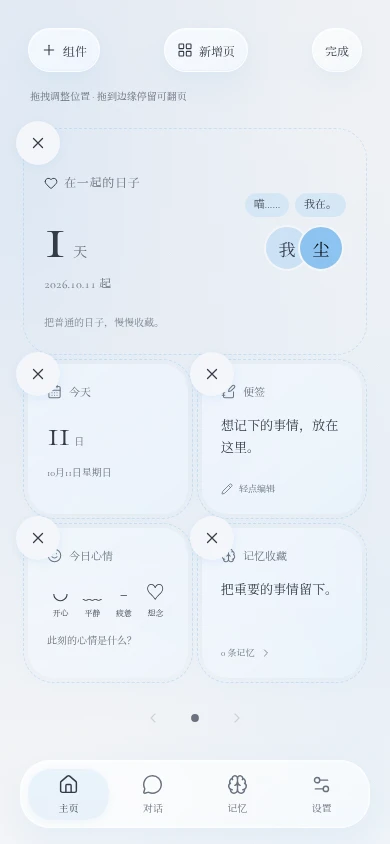
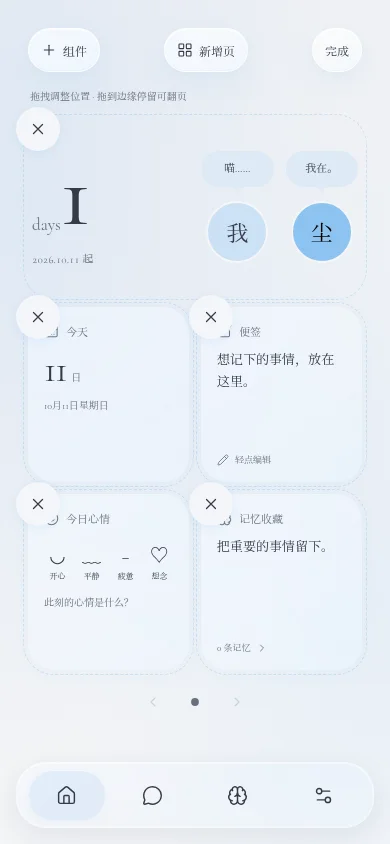
Refine glass dock and anniversary on a 4x6 home grid

diff --git a/src/views.js b/src/views.js
@@ -1,3 +1,4 @@
+import { homeGridSlots } from './home-layout.js';
 import { icon } from './icons.js';
 export const THEME_PRESETS=[['天蓝','#8dc3f0'],['樱粉','#f2a7be'],['蜜桃','#f7b99a'],['柠檬','#f4d66e'],['抹茶','#b3d79b'],['薄荷','#8ed6c0'],['香芋','#b7a2e2']];
 import { daysTogether, isExpired, orderedSessions } from './store.js';
@@ -38,11 +39,12 @@ export function home(state,ui={}) {
  mood:`<section class="widget glass mood-widget"><span class="widget-label">${icon('mood')}${label('mood')}</span><div class="moods">${['开心','平静','疲惫','想念'].map((m,i)=>`<button data-action="mood" data-mood="${m}" class="${h.mood===m?'selected':''}" aria-pressed="${h.mood===m}" aria-label="${m}"><span>${['◡','﹏','−','♡'][i]}</span><small>${m}</small></button>`).join('')}</div><p>${h.mood?`今天，是${escape(h.mood)}的。`:'此刻的心情是什么？'}</p></section>`,
  memory:`<button class="widget glass memory-widget" data-action="memory"><span class="widget-label">${icon('memory')}${label('memory')}</span><p>${escape(chosen?.title||'把重要的事情留下。')}</p><span class="widget-foot">${memories.length} 条记忆 ${icon('chevron')}</span></button>`
  };
- const wrap=(type,content)=>`<div class="home-widget ${type==='anniversary'?'hero-widget':''}" data-home-widget="${type}" tabindex="0" aria-label="${type==='anniversary'?'纪念日':label(type)}，${editing?'拖拽移动，Alt 加方向键调整位置':'长按或右键打开菜单'}"><div class="widget-surface" ${editing?'inert':''}>${content}</div>${editing?`<div class="widget-drag-surface" aria-hidden="true"></div><button class="widget-remove" data-home-action="hide" data-type="${type}" aria-label="移除${type==='anniversary'?'纪念日':label(type)}">${icon('close')}</button>`:''}</div>`;
- const hero=`<section class="anniversary anniversary-horizontal"><div class="anniversary-row"><div class="anniversary-days"><span class="anniversary-title">${icon('heart')}${escape(h.title)}</span><div class="day-count ${String(days>0?days:1-(days||0)).length>4?'long-count':''}"><strong data-home-days>${days>0?days:1-(days||0)}</strong><span data-home-days-unit>${days>0?'天':'天后开始'}</span></div><span class="since">${escape(h.since.replaceAll('-','.'))} 起</span></div><div class="anniversary-companions"><div class="anniversary-bubbles">${[['user',h.userName,h.userBubble||'喵……'],['ai',state.persona.name,h.aiBubble||'我在。']].map(([who,name,bubble])=>`<span class="anniversary-pill" title="${escape(name)}：${escape(bubble)}"><span class="sr-only">${escape(name)}：</span>${escape(bubble)}</span>`).join('')}</div><div class="anniversary-avatars">${[['user',h.userName],['ai',state.persona.name]].map(([who,name])=>`<span class="anniversary-avatar ${who}" title="${escape(name)}" aria-label="${escape(name)}">${avatar(state,who)}</span>`).join('')}</div></div></div>${h.subtitle?`<p class="anniversary-caption">${escape(h.subtitle)}</p>`:''}</section>`;
+ const wrap=(type,content,slot)=>`<div class="home-widget ${type==='anniversary'?'hero-widget':''}" data-home-widget="${type}" style="grid-column:${slot.col} / span ${slot.width};grid-row:${slot.row} / span ${slot.height}" tabindex="0" aria-label="${type==='anniversary'?'纪念日':label(type)}，${editing?'拖拽移动，Alt 加方向键调整位置':'长按或右键打开菜单'}"><div class="widget-surface" ${editing?'inert':''}>${content}</div>${editing?`<div class="widget-drag-surface" aria-hidden="true"></div><button class="widget-remove" data-home-action="hide" data-type="${type}" aria-label="移除${type==='anniversary'?'纪念日':label(type)}">${icon('close')}</button>`:''}</div>`;
+ const count=days>0?days:1-(days||0);
+ const hero=`<section class="anniversary anniversary-horizontal"><div class="anniversary-row"><div class="anniversary-days"><div class="day-count ${String(count).length>3?'long-count':''} ${String(count).length>4?'extra-long-count':''}"><span data-home-days-unit>days</span><strong data-home-days>${count}</strong></div><span class="since">${escape(h.since.replaceAll('-','.'))} ${days>0?'起':'开始'}</span></div><div class="anniversary-companions">${[['user',h.userName,h.userBubble||'喵……'],['ai',state.persona.name,h.aiBubble||'我在。']].map(([who,name,bubble])=>`<div class="anniversary-person"><span class="anniversary-pill" title="${escape(name)}：${escape(bubble)}"><span class="sr-only">${escape(name)}：</span><span class="anniversary-bubble-text">${escape(bubble)}</span></span><span class="anniversary-avatar ${who}" title="${escape(name)}" aria-label="${escape(name)}">${avatar(state,who)}</span></div>`).join('')}</div></div></section>`;
  const pages=ui.dragPages||h.pages||[['anniversary',...h.widgets.map(w=>w.type)]],current=Math.min(ui.page||0,pages.length-1);
  const visible=pages[current].filter(type=>type==='anniversary'?h.anniversaryVisible!==false:h.widgets.some(w=>w.type===type&&w.enabled));
- return `<div class="home-content home-desktop ${editing?'home-editing':''}">${editing?`<div class="home-edit-toolbar"><button class="glass" data-home-action="add" aria-label="添加小组件">${icon('plus')}组件</button><button class="glass" data-home-action="add-page" ${pages.length>=12?'disabled':''}>${icon('layout')}新增页</button><button class="glass" data-home-action="done">完成</button></div><p class="home-edit-help">拖拽调整位置 · 拖到边缘停留可翻页</p>`:''}<section class="home-desktop-page" aria-label="第 ${current+1} 页" data-home-page="${current}"><div class="widget-grid">${visible.map(type=>wrap(type,type==='anniversary'?hero:widgets[type])).join('')}</div>${visible.length?'':`<div class="home-page-empty"><span>${icon('layout')}</span><p>${editing?'从其他页拖入组件，或添加小组件':'这一页，留给新的日常。'}</p>${editing?'<button class="glass" data-home-action="add">添加小组件</button>':''}</div>`}</section><div class="home-page-controls"><button data-home-action="page" data-page="${current-1}" aria-label="上一页" ${current===0?'disabled':''}>${icon('up')}</button><nav class="home-page-dots" aria-label="主页分页">${pages.map((_,i)=>`<button data-home-action="page" data-page="${i}" aria-label="第 ${i+1} 页" ${i===current?'aria-current="page"':''}><span></span></button>`).join('')}</nav><button data-home-action="page" data-page="${current+1}" aria-label="下一页" ${current===pages.length-1?'disabled':''}>${icon('down')}</button></div>${editing?'':`<button class="home-edit-entry" data-home-action="begin">编辑主页</button>`}</div>`;
+ return `<div class="home-content home-desktop ${editing?'home-editing':''}">${editing?`<div class="home-edit-toolbar"><button class="glass" data-home-action="add" aria-label="添加小组件">${icon('plus')}组件</button><button class="glass" data-home-action="add-page" ${pages.length>=12?'disabled':''}>${icon('layout')}新增页</button><button class="glass" data-home-action="done">完成</button></div><p class="home-edit-help">拖拽调整位置 · 拖到边缘停留可翻页</p>`:''}<section class="home-desktop-page" aria-label="第 ${current+1} 页" data-home-page="${current}"><div class="widget-grid">${homeGridSlots(visible).map(slot=>wrap(slot.type,slot.type==='anniversary'?hero:widgets[slot.type],slot)).join('')}</div>${visible.length?'':`<div class="home-page-empty"><span>${icon('layout')}</span><p>${editing?'从其他页拖入组件，或添加小组件':'这一页，留给新的日常。'}</p>${editing?'<button class="glass" data-home-action="add">添加小组件</button>':''}</div>`}</section><div class="home-page-controls"><button data-home-action="page" data-page="${current-1}" aria-label="上一页" ${current===0?'disabled':''}>${icon('up')}</button><nav class="home-page-dots" aria-label="主页分页">${pages.map((_,i)=>`<button data-home-action="page" data-page="${i}" aria-label="第 ${i+1} 页" ${i===current?'aria-current="page"':''}><span></span></button>`).join('')}</nav><button data-home-action="page" data-page="${current+1}" aria-label="下一页" ${current===pages.length-1?'disabled':''}>${icon('down')}</button></div>${editing?'':`<button class="home-edit-entry" data-home-action="begin">编辑主页</button>`}</div>`;
 }
 export function memory(state,filter='all',search='') {
  const list=state.memories.filter(m => (filter==='expired'?isExpired(m):!isExpired(m) && (filter==='all'||m.kind===filter)) && `${m.title} ${m.content}`.toLowerCase().includes(search.toLowerCase()));

diff --git a/src/style.css b/src/style.css
@@ -117,26 +117,53 @@ dialog[open]::backdrop{animation:backdrop-arrive 180ms ease-out}
 @media(prefers-reduced-motion:no-preference){.home-context-menu[open]{animation:widget-menu-fade 140ms ease-out}@keyframes widget-menu-fade{from{opacity:0}to{opacity:1}}}
 .home-page-controls button,.home-edit-toolbar button{touch-action:manipulation}
 
-/* Compact transparent anniversary, following the supplied horizontal example. */
-.home-widget .anniversary-horizontal{padding:24px 12px 18px;background:transparent;border:0;box-shadow:none;backdrop-filter:none}
-.anniversary-row{display:grid;grid-template-columns:minmax(0,1fr) minmax(0,1fr);align-items:center;gap:16px;min-height:150px;padding:8px 4px}
+/* Transparent anniversary: one speech bubble above each independent avatar. */
+.home-widget .anniversary-horizontal{height:100%;padding:8px 4px;background:transparent;border:0;box-shadow:none;backdrop-filter:none;display:flex;align-items:center}
+.anniversary-row{width:100%;display:grid;grid-template-columns:minmax(0,1fr) minmax(0,1fr);align-items:center;gap:12px}
 .anniversary-horizontal .anniversary-days{padding:0}
-.anniversary-horizontal .anniversary-title{display:flex;align-items:center;gap:6px;font-size:12px;letter-spacing:.06em;line-height:1.5;overflow-wrap:anywhere}
-.anniversary-horizontal .anniversary-title svg{width:14px;height:14px;color:var(--ink)}
-.anniversary-horizontal .day-count{gap:6px;margin:10px 0 4px;flex-wrap:wrap}
-.anniversary-horizontal .day-count strong{font-family:var(--font-en);font-variant-numeric:normal;font-size:68px;line-height:1;font-weight:500;letter-spacing:.01em}
-.anniversary-horizontal .day-count>span{font-size:14px}
-.anniversary-horizontal .day-count.long-count strong{font-size:44px}
-.anniversary-horizontal .since{font-size:12px;letter-spacing:0;font-variant-numeric:tabular-nums}
-.anniversary-companions{min-width:0;display:flex;flex-direction:column;align-items:flex-end;gap:8px}
-.anniversary-bubbles{width:100%;display:flex;justify-content:flex-end;align-items:flex-end;gap:6px;max-width:100%}
-.anniversary-pill{min-width:0;max-width:calc(50% - 3px);padding:4px 9px;border-radius:12px;background:color-mix(in srgb,var(--accent) 30%,var(--solid));font-size:11px;line-height:1.5;overflow-wrap:anywhere;white-space:pre-wrap;color:var(--ink)}
-.anniversary-avatars{display:flex;justify-content:flex-end;align-items:center;padding-right:2px}
+.anniversary-horizontal .day-count{position:relative;display:block;padding-left:28px;margin:0 0 8px}
+.anniversary-horizontal .day-count strong{font-family:var(--font-en);font-variant-numeric:normal;font-size:clamp(78px,24vw,96px);line-height:1;font-weight:500;letter-spacing:0}
+.anniversary-horizontal .day-count>span{position:absolute;left:0;bottom:9px;margin:0;font-size:17px;line-height:1;color:var(--muted)}
+.anniversary-horizontal .day-count.long-count strong{font-size:clamp(58px,18vw,72px)}
+.anniversary-horizontal .day-count.extra-long-count strong{font-size:clamp(42px,13vw,52px)}
+.anniversary-horizontal .since{font-size:11px;letter-spacing:0;font-variant-numeric:tabular-nums}
+.anniversary-companions{min-width:0;display:grid;grid-template-columns:repeat(2,minmax(0,1fr));gap:12px}
+.anniversary-person{min-width:0;display:flex;flex-direction:column;align-items:center;gap:14px}
+.anniversary-pill{position:relative;display:flex;align-items:center;justify-content:center;width:100%;min-height:36px;max-height:56px;padding:7px 5px;border-radius:18px;background:color-mix(in srgb,var(--accent) 22%,var(--solid));font-size:11px;line-height:1.4;overflow-wrap:anywhere;white-space:pre-wrap;color:var(--ink);text-align:center}
+.anniversary-bubble-text{display:-webkit-box;-webkit-line-clamp:2;-webkit-box-orient:vertical;overflow:hidden}
+.anniversary-pill:after{content:'';position:absolute;bottom:-6px;left:calc(50% - 7px);width:14px;height:10px;clip-path:polygon(0 0,100% 0,50% 100%);background:inherit}
 .anniversary-avatar{display:block;position:relative}
-.anniversary-avatar.ai{margin-left:-12px;z-index:1}
-.anniversary-avatar .avatar{width:46px;height:46px;border:2px solid var(--solid);box-shadow:none;background:color-mix(in srgb,var(--accent) 40%,var(--solid));color:var(--ink)}
+.anniversary-avatar .avatar{width:clamp(54px,16vw,64px);height:clamp(54px,16vw,64px);border:2px solid var(--solid);box-shadow:none;background:color-mix(in srgb,var(--accent) 40%,var(--solid));color:var(--ink)}
 .anniversary-avatar.ai .avatar{background:var(--accent);color:var(--accent-ink,var(--ink))}
-.anniversary-avatar .avatar>span{font-size:17px;opacity:1}
-.home-widget .anniversary-horizontal>.anniversary-caption{font-size:10px;margin:8px 4px 0;line-height:1.7}
+.anniversary-avatar .avatar>span{font-size:22px;opacity:1}
 .color-presets{flex-wrap:wrap}
-@media(max-width:380px){.home-widget .anniversary-horizontal{padding:20px 4px 16px}.anniversary-row{gap:12px;padding:8px 0}.anniversary-horizontal .day-count strong{font-size:62px}.anniversary-pill{padding:4px 7px}}
+
+/* A six-row desktop, with 4×2 and 2×2 widgets sharing the same cells. */
+.home-desktop{height:100%;min-height:0}
+.home-desktop-page{min-height:330px;position:relative}
+.home-desktop .widget-grid{height:100%;margin:0;grid-template-columns:repeat(4,minmax(0,1fr));grid-template-rows:repeat(6,minmax(0,1fr));gap:12px;align-items:stretch}
+.home-desktop .widget{min-height:0;padding:16px;overflow:hidden}
+.home-desktop .widget p{margin-top:10px;display:-webkit-box;-webkit-line-clamp:3;-webkit-box-orient:vertical;overflow:hidden}
+.home-desktop .widget-foot{padding-top:8px;flex-shrink:0}
+.home-desktop .date-widget strong{margin-top:12px}
+.home-page-controls{flex-shrink:0;margin-top:10px}
+.home-edit-entry{flex-shrink:0;margin:0 auto;min-height:44px}
+.home-edit-help{flex-shrink:0;margin-bottom:16px}
+.home-edit-toolbar{flex-shrink:0}
+.home-page-empty{position:absolute;inset:0}
+@media(max-width:380px){.home-desktop .widget{padding:12px}.home-desktop .widget-label{gap:5px;font-size:10px}.home-desktop .widget p{font-size:11px}.home-desktop .moods{margin-top:10px}.home-desktop .mood-widget p{font-size:9px}}
+
+/* A bright rim and transparent lens, with evenly spaced icon-only targets. */
+.nav-dock{padding-left:16px;padding-right:16px;background:transparent}
+.bottom-nav{max-width:390px;padding:7px 12px;gap:10px;background:linear-gradient(155deg,rgb(var(--glass-tint) / .26),rgb(var(--glass-tint) / .08) 55%,rgb(var(--glass-tint) / .18));border:1px solid rgb(var(--glass-tint) / .4);box-shadow:inset 0 1px 1px rgb(var(--glass-tint) / .65),inset 0 -1px 1px rgb(var(--glass-tint) / .2),0 8px 28px rgb(25 35 50 / .08);backdrop-filter:blur(20px) saturate(160%);-webkit-backdrop-filter:blur(20px) saturate(160%)}
+.bottom-nav button{min-height:50px;color:var(--ink)}
+.bottom-nav button.active{background:rgb(var(--tint) / .18)}
+@media(max-height:720px){
+ .home-editing .home-widget .anniversary-horizontal{padding:4px}
+ .home-editing .anniversary-person{gap:10px}
+ .home-editing .anniversary-avatar .avatar{width:50px;height:50px}
+ .home-editing .anniversary-pill{min-height:32px;padding:5px;font-size:10px;line-height:1.2}
+ .home-editing .anniversary-horizontal .day-count strong{font-size:64px}
+ .home-editing .anniversary-horizontal .day-count.long-count strong{font-size:48px}
+ .home-editing .anniversary-horizontal .day-count.extra-long-count strong{font-size:36px}
+}

diff --git a/src/home-editor.js b/src/home-editor.js
@@ -36,7 +36,7 @@ export function createHomeEditor({app,getState,setState,persist,render,notify,co
   let content='';
   if(kind==='add'){content=`${header('添加小组件')}<div class="home-widget-picker">${[{type:'anniversary',enabled:h.anniversaryVisible!==false},...h.widgets].map(w=>`<button data-home-add="${w.type}" ${w.enabled?'disabled':''}><span>${widgetLabels[w.type]||'纪念日'}</span><small>${w.enabled?'已在主页':'添加 +'}</small></button>`).join('')}</div>`;}
   else if(kind==='anniversary'){
-   content=field('纪念日名称','title',h.title)+field('开始日期','since',h.since,'','date')+`<div class="home-avatar-editor">${[['user','userAvatar','你的头像'],['ai','aiAvatar','AI 头像']].map(([who,key,label])=>`<div><div data-avatar-preview="${key}">${avatar(draft,who)}</div><label class="upload-label">${label}<input type="file" data-home-avatar="${key}" accept="image/jpeg,image/png,image/webp"></label><button type="button" data-reset-avatar="${key}" class="text-button">恢复默认</button></div>`).join('')}</div>`+field('你的名字','userName',h.userName)+field('AI 名字','aiName',draft.persona.name)+field('你的气泡','userBubble',h.userBubble||'喵……')+field('AI 的气泡','aiBubble',h.aiBubble||'我在。')+field('下方的一句话','subtitle',h.subtitle)+`<p class="hint">开始当天为第 1 天。头像与名字也会同步用于对话。</p>`;
+   content=field('开始日期','since',h.since,'','date')+`<div class="home-avatar-editor">${[['user','userAvatar','你的头像'],['ai','aiAvatar','AI 头像']].map(([who,key,label])=>`<div><div data-avatar-preview="${key}">${avatar(draft,who)}</div><label class="upload-label">${label}<input type="file" data-home-avatar="${key}" accept="image/jpeg,image/png,image/webp"></label><button type="button" data-reset-avatar="${key}" class="text-button">恢复默认</button></div>`).join('')}</div>`+field('你的名字','userName',h.userName)+field('AI 名字','aiName',draft.persona.name)+field('你的气泡','userBubble',h.userBubble||'喵……')+field('AI 的气泡','aiBubble',h.aiBubble||'我在。')+`<p class="hint">开始当天为第 1 天。头像与名字也会同步用于对话。</p>`;
   }else{
    content=field('组件标题','widgetTitle',h.widgetTitles?.[kind]||widgetLabels[kind]);
    if(kind==='note')content+=`<label class="field"><span>便签内容</span><textarea name="note" maxlength="500" rows="5">${escape(h.note)}</textarea></label>`;
@@ -118,12 +118,12 @@ export function createHomeEditor({app,getState,setState,persist,render,notify,co
   try{const data=await compressImage(input.files[0],256);if(!dialog.open||draft!==editingDraft)return;draft.appearance[key]=data;dialog.querySelector(`[data-avatar-preview="${key}"]`).innerHTML=avatar(draft,key==='userAvatar'?'user':'ai');}catch(error){if(draft===editingDraft)report(error.message);}finally{if(draft===editingDraft){uploads--;save.disabled=uploads>0;}input.value='';}
  });
  dialog.addEventListener('submit',e=>{e.preventDefault();const data=Object.fromEntries(new FormData(e.target));if(type==='anniversary'&&daysTogether(data.since)===null){notify('请选择有效的日期。');return;}
-  if(commit(s=>{if(type==='anniversary'){Object.assign(s.home,{title:data.title.trim().slice(0,40)||'在一起的日子',since:data.since,userName:data.userName.trim().slice(0,40)||'我',userBubble:data.userBubble.trim().slice(0,40),aiBubble:data.aiBubble.trim().slice(0,40),subtitle:data.subtitle.slice(0,200)});s.persona.name=data.aiName.trim().slice(0,40)||s.persona.name;s.appearance.userAvatar=draft.appearance.userAvatar;s.appearance.aiAvatar=draft.appearance.aiAvatar;}
+  if(commit(s=>{if(type==='anniversary'){Object.assign(s.home,{since:data.since,userName:data.userName.trim().slice(0,40)||'我',userBubble:data.userBubble.trim().slice(0,40),aiBubble:data.aiBubble.trim().slice(0,40)});s.persona.name=data.aiName.trim().slice(0,40)||s.persona.name;s.appearance.userAvatar=draft.appearance.userAvatar;s.appearance.aiAvatar=draft.appearance.aiAvatar;}
    else{s.home.widgetTitles={...s.home.widgetTitles,[type]:data.widgetTitle.trim().slice(0,20)};if(type==='note')s.home.note=data.note.slice(0,500);if(type==='date')s.home.showWeekday=data.showWeekday==='on';if(type==='mood')s.home.mood=data.mood;if(type==='memory')s.home.memoryId=data.memoryId;}
   })){dialog.close();refresh();notify('小组件已保存。');}
  });
  dialog.addEventListener('close',()=>{draft=null;app.querySelector(`[data-home-widget="${type}"]`)?.focus({preventScroll:true});});
- function clock(){if(lastDate!==localDate()){lastDate=localDate();if(app.querySelector('.home-page'))refresh();}const clock=app.querySelector('[data-home-clock]');const now=new Date(),h=getState().home,days=daysTogether(h.since);if(clock){clock.textContent=now.toLocaleTimeString('en-GB',{hour:'2-digit',minute:'2-digit',hour12:false});clock.dateTime=now.toISOString();}const count=app.querySelector('[data-home-days]');if(count)count.textContent=days>0?days:1-(days||0);const unit=app.querySelector('[data-home-days-unit]');if(unit)unit.textContent=days>0?'天':'天后开始';}
+ function clock(){if(lastDate!==localDate()){lastDate=localDate();if(app.querySelector('.home-page'))refresh();}const clock=app.querySelector('[data-home-clock]');const now=new Date(),h=getState().home,days=daysTogether(h.since);if(clock){clock.textContent=now.toLocaleTimeString('en-GB',{hour:'2-digit',minute:'2-digit',hour12:false});clock.dateTime=now.toISOString();}const count=app.querySelector('[data-home-days]');if(count)count.textContent=days>0?days:1-(days||0);const unit=app.querySelector('[data-home-days-unit]');if(unit)unit.textContent='days';}
  setInterval(clock,1000);document.addEventListener('visibilitychange',clock);
  return {ui,exit(){closeMenu();finishDrag(false);ui.editing=false;ui.page=Math.max(0,Math.min(ui.page,getState().home.pages.length-1));cancel();gesture=null;},clock};
 }

diff --git a/src/app.js b/src/app.js
@@ -22,7 +22,7 @@ function render(){
  for(const node of app.querySelectorAll('details')){if(node.open)opened.add(node.id);else opened.delete(node.id);}
  applyAppearance();
  const activePage=page==='sessions'?'chat':page;
- app.innerHTML=`<div class="shell ${['chat','sessions'].includes(page)?'immersive':''}"><div class="wallpaper" aria-hidden="true"></div><main>${page==='chat'?chat(state,chatUI):page==='sessions'?sessions(state,sessionSearch,oldestFirst):`<div class="page-content ${page==='home'?'home-page':''}">${page==='home'?home(state,homeEditor.ui):page==='memory'?memory(state,memoryFilter,memorySearch):page==='settings'?settings(state):`<header class="session-header">${button('chat','back','返回对话')}</header>${sessions(state)}`}</div>`}</main>${['chat','sessions'].includes(page)?'':`<div class="nav-dock"><nav class="bottom-nav glass" aria-label="主导航">${nav.map(([p,i,l])=>`<button data-action="${p}" class="${activePage===p?'active':''}" ${activePage===p?'aria-current="page"':''}>${icon(i)}<span>${l}</span></button>`).join('')}</nav></div>`}</div>`;
+ app.innerHTML=`<div class="shell ${['chat','sessions'].includes(page)?'immersive':''}"><div class="wallpaper" aria-hidden="true"></div><main>${page==='chat'?chat(state,chatUI):page==='sessions'?sessions(state,sessionSearch,oldestFirst):`<div class="page-content ${page==='home'?'home-page':''}">${page==='home'?home(state,homeEditor.ui):page==='memory'?memory(state,memoryFilter,memorySearch):page==='settings'?settings(state):`<header class="session-header">${button('chat','back','返回对话')}</header>${sessions(state)}`}</div>`}</main>${['chat','sessions'].includes(page)?'':`<div class="nav-dock"><nav class="bottom-nav glass" aria-label="主导航">${nav.map(([p,i,l])=>`<button data-action="${p}" aria-label="${l}" class="${activePage===p?'active':''}" ${activePage===p?'aria-current="page"':''}>${icon(i)}</button>`).join('')}</nav></div>`}</div>`;
  if(sidebarDialog.open){const scroll=sidebarDialog.querySelector('.sidebar-conversations')?.scrollTop||0;sidebarDialog.innerHTML=sidebar(state,page);sidebarDialog.querySelector('.sidebar-conversations').scrollTop=scroll;}
  for(const id of opened){const d=document.getElementById(id);if(d)d.open=true;}
  const messages=document.querySelector('#messages');if(messages)messages.scrollTop=messages.scrollHeight;

diff --git a/tests/home-layout.test.js b/tests/home-layout.test.js
@@ -1,6 +1,6 @@
 import test from 'node:test';
 import assert from 'node:assert/strict';
-import {normalizeHomePages,moveHomeWidget,widgetMenuPosition} from '../src/home-layout.js';
+import {normalizeHomePages,moveHomeWidget,widgetMenuPosition,homeGridSlots} from '../src/home-layout.js';
 import {createState,normalizeState,exportData} from '../src/store.js';
 test('old home data migrates into one page without changing widget order or hidden state',()=>{
  const state=createState();delete state.home.pages;state.home.widgets.reverse();state.home.widgets[0].enabled=false;
@@ -16,4 +16,16 @@ test('context menu follows each widget and stays inside small or offset viewport
  const upper=widgetMenuPosition({left:28,right:188,top:150,bottom:300},size,viewport),lower=widgetMenuPosition({left:202,right:362,top:620,bottom:770},size,viewport);
  assert.equal(upper.y,310);assert.equal(lower.y,442);assert.notEqual(upper.x,lower.x);
  for(const v of [viewport,{left:10,top:120,width:320,height:390}])for(const r of [{left:0,right:160,top:0,bottom:150},{left:200,right:360,top:700,bottom:850}]){const p=widgetMenuPosition(r,size,v);assert(p.x>=v.left+12&&p.y>=v.top+12);assert(p.x+size.width<=v.left+v.width-12&&p.y+size.height<=v.top+v.height-12);}
+});
+
+test('all widget orders pack within 4×6 without overlaps or lost widgets',()=>{
+ const permute=items=>items.length?items.flatMap((item,i)=>permute(items.filter((_,j)=>i!==j)).map(rest=>[item,...rest])):[[]];
+ for(const order of permute(['anniversary','date','note','mood','memory'])){
+  const slots=homeGridSlots(order),occupied=new Set();assert.deepEqual(slots.map(s=>s.type),order);
+  for(const s of slots){assert.equal(s.width,s.type==='anniversary'?4:2);assert.equal(s.height,2);assert(s.row+s.height<=7&&s.col+s.width<=5);
+   for(let y=s.row;y<s.row+s.height;y++)for(let x=s.col;x<s.col+s.width;x++){const key=`${x},${y}`;assert(!occupied.has(key));occupied.add(key);}
+  }
+  assert.equal(occupied.size,24);
+ }
+ assert.deepEqual(homeGridSlots([]),[]);
 });

diff --git a/src/home-layout.js b/src/home-layout.js
@@ -18,3 +18,18 @@ export function widgetMenuPosition(r,size,v){
  if(y<minY||y>maxY)y=below<=maxY?below:above;
  return {x:clamp((r.left+r.right-size.width)/2,minX,maxX),y:clamp(y,minY,maxY)};
 }
+
+// First-fit packing keeps every widget inside the four-column, six-row desktop.
+export function homeGridSlots(types){
+ const cells=Array.from({length:6},()=>Array(4).fill(false));
+ return types.map(type=>{
+  const width=type==='anniversary'?4:2,height=2;
+  for(let row=0;row<=6-height;row++)for(let col=0;col<=4-width;col++){
+   if(cells.slice(row,row+height).every(line=>line.slice(col,col+width).every(cell=>!cell))){
+    for(let y=row;y<row+height;y++)for(let x=col;x<col+width;x++)cells[y][x]=true;
+    return {type,row:row+1,col:col+1,width,height};
+   }
+  }
+  throw new RangeError('主页网格已满');
+ });
+}

diff --git a/docs/CODEX_HANDOFF.md b/docs/CODEX_HANDOFF.md
@@ -29,16 +29,16 @@
 
 ### 导航和主页
 
-- 默认打开主页；主导航只有「主页、对话、记忆、设置」。对话页与完整会话列表隐藏底栏。
+- 默认打开主页；主导航只有「主页、对话、记忆、设置」，底栏仅显示图标，保留无障碍名称；背景为高透明玻璃、细亮边与模糊效果。对话页与完整会话列表隐藏底栏。
 - 主页顶部原来的品牌/「我们的主页」标题区域已删除。
-- 纪念日按用户提供的横向示例重做：透明无边框，左侧标题、衬线大号天数和开始日期，右侧胶囊气泡与重叠双头像。组件内原来的时钟已移除，保留可编辑说明、双方名字与头像数据。
-- 主页小组件包括今天、便签、心情、记忆收藏。
+- 纪念日透明无边框，占 4×2：左侧放大的衬线数字、数字左下侧 days 和开始日期；右侧两个独立圆头像并排，各自上方为带向下尖角的气泡。头像素材沿用用户自己的图片。原标题与下方说明不再展示或提供编辑，旧数据仍保留在存储及备份中。
+- 主页每页固定 4 列 × 6 行；纪念日占 4×2，今天、便签、心情、记忆收藏各占 2×2。按组件顺序寻找空位排列，不重写原分页数据。
 - 长按或右键主页组件，在组件附近弹出「编辑内容、编辑主页、移除」菜单；支持键盘入口、方向键、Escape 与点击外部关闭。编辑内容只打开当前组件的编辑抽屉。
 - 「编辑主页」进入全局布局模式，直接拖拽组件排序（含纪念日），使用角落的 × 移除，不再提供选中模式或箭头排序，也不打开内容编辑。底部保留「编辑主页」入口。
 - 主页支持新增分页（最多 12 页）、左右滑动和圆点切换。编辑模式拖到左右边缘或分页控件停留约 650ms 可翻页并移动组件；拖拽中显示浮起的组件与原位占位，释放才保存，取消不保存。
 - 键盘可用 Alt+上下调整页内顺序、Alt+左右移到相邻页。
 - 菜单按组件实际位置水平居中并避让屏幕边缘，上半屏优先向下、下半屏优先向上弹出；基于未变换的尺寸定位，避免开场动画影响坐标。
-- 纪念日日期、双方名字/头像、气泡文字、说明，以及各组件设置均可原地修改；取消不保存。移除只隐藏并保留内容，可重新添加（含纪念日）；支持网格内拖拽排序及跨页移动，不是任意像素位置的自由布局。
+- 纪念日日期、双方名字/头像、气泡文字，以及各组件设置均可原地修改；取消不保存。移除只隐藏并保留内容，可重新添加（含纪念日）；支持网格内拖拽排序及跨页移动，不是任意像素位置的自由布局。
 - 主页组件配置已从设置页移除。
 
 ### 对话和会话

diff --git a/docs/verification.md b/docs/verification.md
@@ -37,3 +37,11 @@
 - 本机托管 Cormorant Garamond（英文与数字）及 Noto Serif SC（思源宋体，中文）。字体取自 Fontsource，附完整 SIL OFL 1.1 许可；未复制参考项目代码或个人素材。
 - Chromium 的实际字形查询确认数字、英文和中文分别由对应的自定义字体渲染，纪念日数字计算样式字重为 500。320 / 375 / 390px 与横屏无横向溢出，夜间模式无运行错误。
 - 中文文本、输入控件继承宋体，颜文字保留原符号字体，开屏保留 Distant Stroke。仅字体和展示更新，数据存储格式不变。
+
+## 4×6 桌面与底栏微调
+
+- 网格打包测试覆盖五个组件的全部 120 种排列，均在 4×6 内、无重叠或丢失；全部 18 项测试及语法检查通过。
+- Chromium 实际预览检查：320×640、390×844、700×900、844×390；网格为四列六行、组件不超出网格、无页面横向溢出。横屏可纵向滚动保留操作空间。
+- 底栏仅图标且保留 aria-label；两个头像不重叠，气泡分别在头像上方；数字左下为 days，旧标题/说明不渲染。
+- 纪念日气泡编辑、保存和刷新恢复通过。真实触摸事件验证长按菜单、跨页拖拽、滑动翻页、翻页后导航及夜间模式，无 JavaScript 错误。
+- 透明玻璃为 CSS 视觉效果，尚未在实体 iPhone 上验证。
